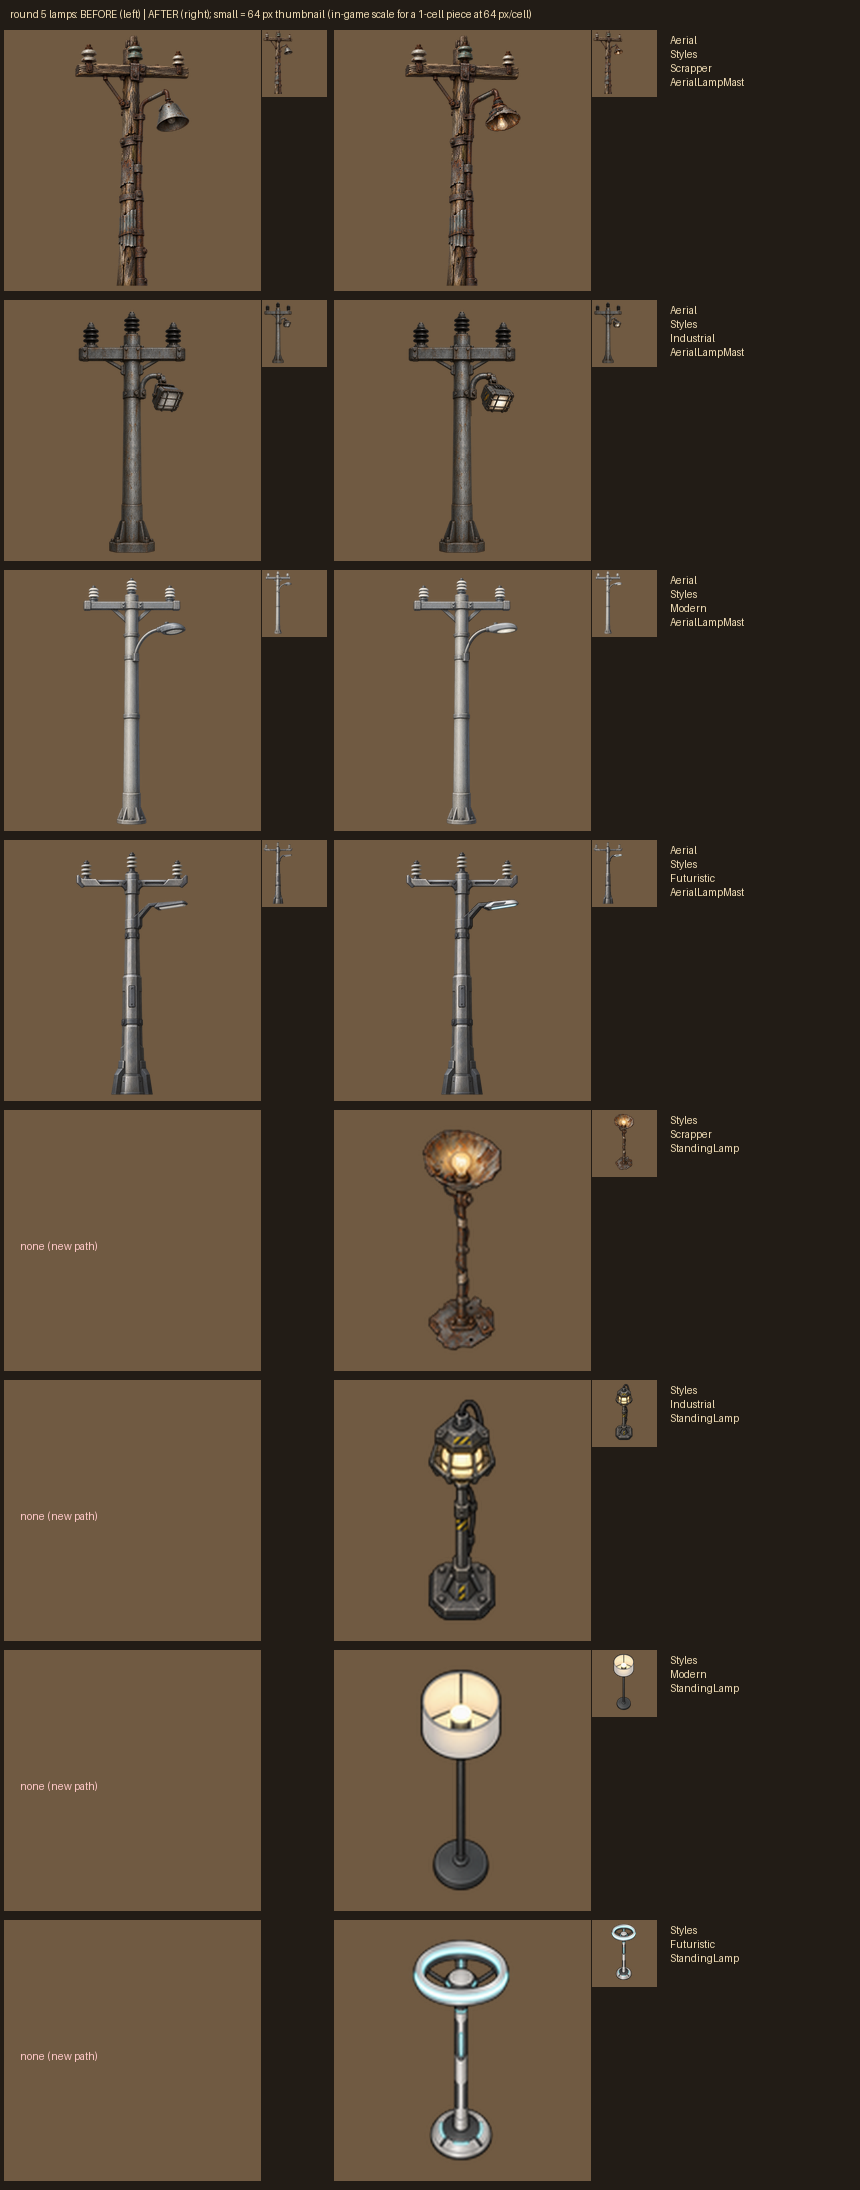
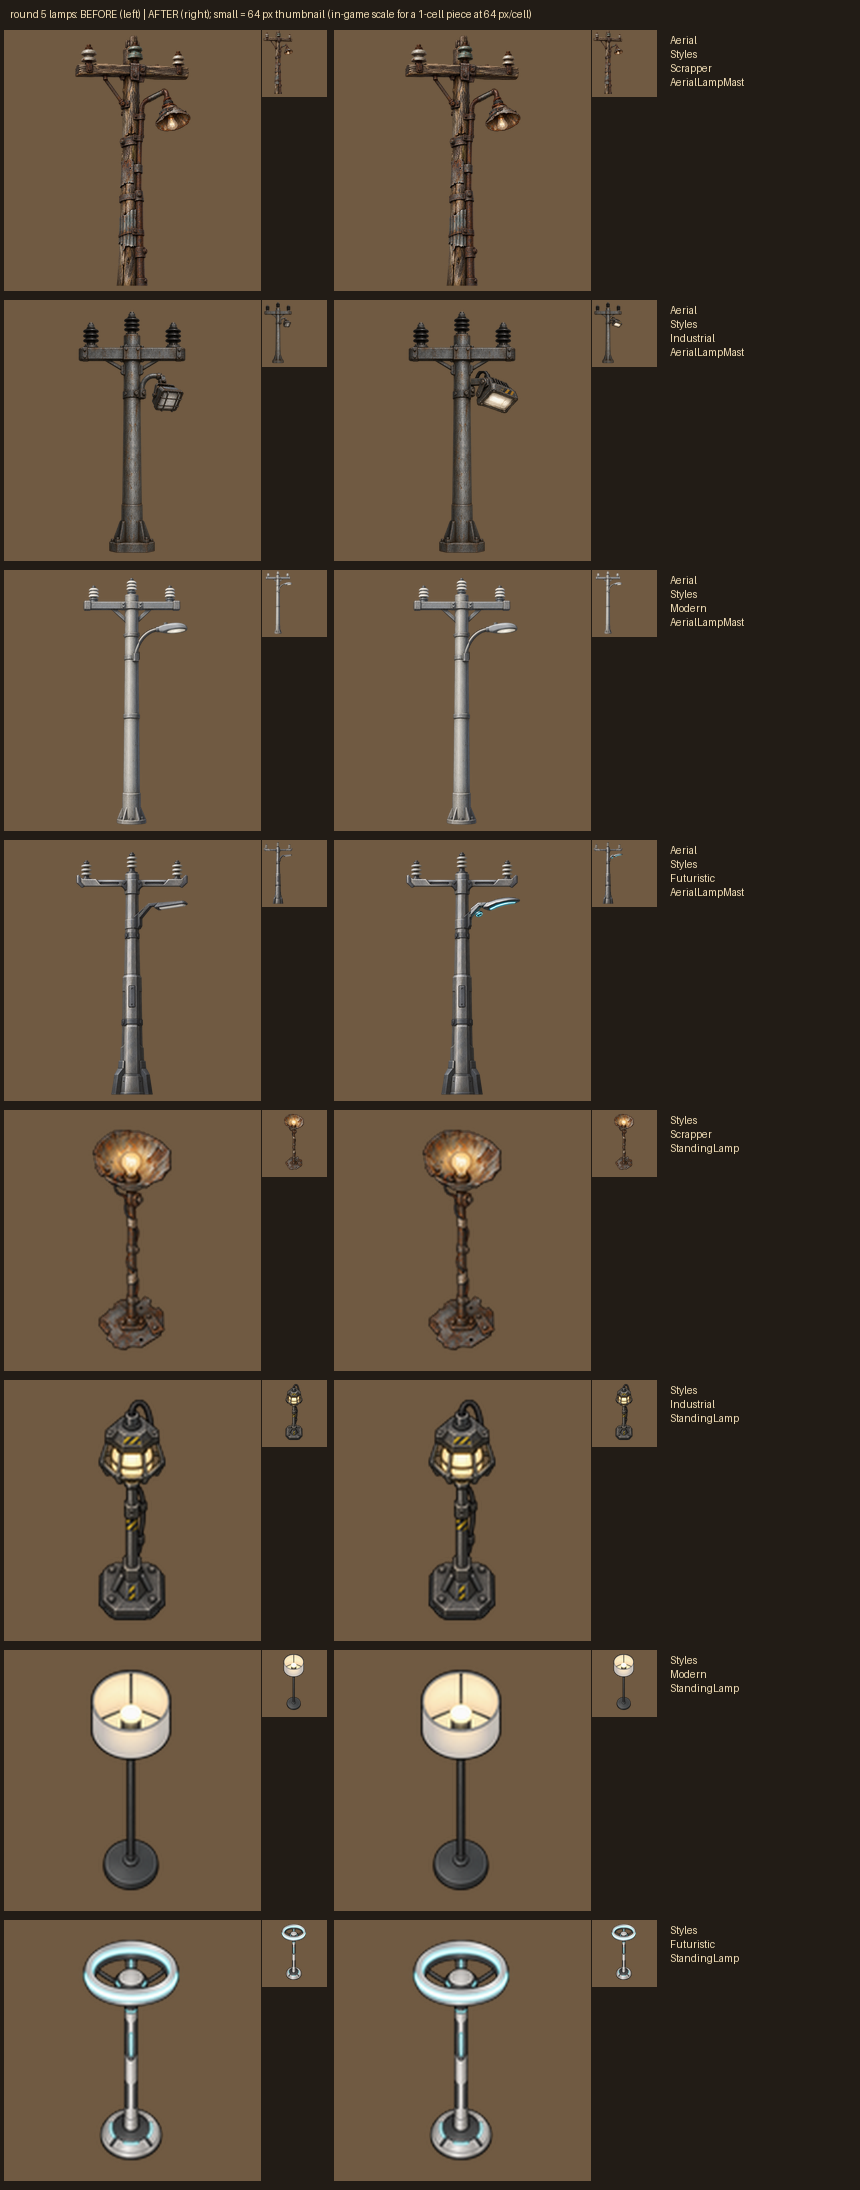
MessyConduit art r5: angular industrial floodlight and futuristic light-blade mast heads, Modern hose reel fire-hydrant red with bare steel wheel; round 5 report and contact sheets

diff --git a/src/RimMandrake/Utils/mockups/messy_conduit/round5_art_install.py b/src/RimMandrake/Utils/mockups/messy_conduit/round5_art_install.py
@@ -156,10 +156,11 @@ def plan():
         off, n = w.strip_off(S)
         out.append(("Styles/ExtCord/PowerStrip_Off.png", off, "derived LED-off %d px" % n))
     for L in LOOKS:
-        if not have("mast_" + L):
+        src = "mast2_" + L if have("mast2_" + L) else "mast_" + L    # mast2_ = the stronger retry (Industrial, Futuristic)
+        if not have(src):
             continue
         old_p = os.path.join(IN, "mast_" + L + ".png")
-        new = conform(old_p, os.path.join(RAW, "mast_" + L + ".png"), os.path.join(CONF, "mast_%s_reg.png" % L))
+        new = conform(old_p, os.path.join(RAW, src + ".png"), os.path.join(CONF, "mast_%s_reg.png" % L))
         old = rgba(old_p)
         x0, y0, x1, y1 = HEAD_BOX[L]
         m = old.copy()

diff --git a/Transient/mc_art_round5_report.md b/Transient/mc_art_round5_report.md
@@ -1,6 +1,6 @@
 # Messy Conduit — art round 5 (owner review of per-style map)
 
-Status: IN PROGRESS (skeleton written first; filled section by section)
+Status: DONE 2026-10-04 (art installed through the art ledger; nothing deployed or seen in game)
 
 ## 1. Owner's words (verbatim)
 "Station 3: Power switch in modern style should look like something in the real world: a throw-switch to connect-disconnect power. Junction boxes should look like little square connector bricks you plug into (three prong). Power strips should be plugged into the top with three-prong plugs, like real life. Station 4 T and + power junctions look very poor quality: need to make the wires thinner, and ensure the junction box connectors are thicker to cover them. Make + and T connectors be relatively the same central size/center. Station 6: Make the lamps on the lamp masts like ordinary lights, not frozen bright sparkles. Make them the same as the wall lights normally used. Make the cybertek light look very futuristic, the modern lamp look like a streetlight, the industrial star wars one look angular and industrial, and the junker one look like a bare lightbulb in a crude reflector dish. Make the industrial black cables for the poles narrower: they are extremely thick right now. Station 11: The hose reel for modern should not itself be neon, but rather fire-hydrant-red painted metal and bare steel wheel. Make the power switches look appropriate for each of the chosen styles as well. Also redo the bare lamp on the floor the same way (art). station 23: clamp is too low res, looks bad and has strange metallic conduit sticking out its back. Fix."
@@ -40,14 +40,34 @@ clamps x4, Modern stored reel); wave 2 = switch Off x4 (edit of each new On: lev
 T junctions are NOT rendered: each T is its look's + image shifted 19 px and cut above the brick, so T and + share one
 brick size and centre exactly.
 
-Progress: first 5 renders back clean with real alpha at 1254 px. Scrapper switch first render came back as a 128 px
-non-render (rejected, `sw_Scrapper_rejected128.png`), re-queued.
-Conformed so far and looked at: all four + / T junction pairs (ExtCord recoloured to Green/Brown/Yellow/Blue with
-recolor_extcord_pieces.recolor: the plug heads take the net's cord colour, the white brick stays), Modern switch (grey
-disconnect box, red throw handle), Modern mast head (cobra-head streetlight).
+Installed (all through artledger.install_image, reason script:round5_art_install.py; validator PASS on every slot against
+its shipped reference, the only finding the usual faint-alpha WARN 0.2-3%):
+- switches x8: Scrapper copper knife switch on scrap plate; Industrial gunmetal disconnect box with angular throw lever and
+  green lamp; Modern grey steel safety-disconnect box with a red throw handle (On = handle up, Off = handle down);
+  Futuristic alloy breaker with a glowing slide lever. Off = an edit of the same On render with the lever thrown open.
+- junctions x16: + and T per family + ExtCord Green/Brown/Yellow/Blue recolours (`Junction_Tin`/`Junction_Tape` for Scrapper).
+- power strip: `PowerStrip.png` (white strip, black 3-prong plugs pushed in from the top, orange LED) + derived
+  `Styles\ExtCord\PowerStrip_Off.png`. **Validator REJECT, shipped anyway, said here:** height 16 px vs the old 18 and
+  aspect 3.69 vs 3.28 - the redesign (plugs on top, cord tails) is wider than the old bare strip at the same box; it is
+  not squashed. Same 64x32 canvas, same draw (0.8 x 0.4 cell).
+- lamp mast heads x4 (+ tops): Scrapper bare bulb in a dented reflector dish; Industrial angular gunmetal floodlight (retry:
+  the first edit barely changed the old caged lantern); Modern cobra-head streetlight; Futuristic alloy blade with a cyan-white
+  light strip (retry, same reason). Pole/crossarm/insulators byte-identical outside the head box.
+- Modern reel stored + laid: fire-hydrant red painted housing, bare steel hand-wheel, green hose kept.
+- tap clamps x4 at 256 (was a 64 render upscaled to 128): no cable stub behind the handles. Validated against the old clamp
+  upscaled x2 with its stub columns cut (vs the raw old one it REJECTs on -18% width: that width IS the removed stub).
+- floor lamps x4 at `Styles\<Look>\StandingLamp.png` (new paths, 128): Scrapper bulb in scrap dish on pipe stand;
+  Industrial caged lantern on hazard-striped stand; Modern drum shade on black pole; Futuristic alloy column with a ring light.
+  NOT DRAWN IN GAME until the code change in sec. 6 item 3.
 
-## 5. Contact sheets
-(to fill)
+## 5. Contact sheets (before = git HEAD at sheet time, after = installed candidate)
+
+- `D:\Luke\dev\RimMandrake\Transient\mc_style_art\round5_switches.png`
+- `D:\Luke\dev\RimMandrake\Transient\mc_style_art\round5_junctions.png`
+- `D:\Luke\dev\RimMandrake\Transient\mc_style_art\round5_lamps.png` (mast heads + floor lamps)
+- `D:\Luke\dev\RimMandrake\Transient\mc_style_art\round5_strip_reel_clamp.png`
+(Rebuilt with `round5_art_install.py sheets`; in the lamps sheet Scrapper/Modern masts show identical before/after because
+they were committed before the last rebuild.)
 
 ## 6. Code changes owed by other agents (no C#/Defs edited here)
 
@@ -66,4 +86,11 @@ disconnect box, red throw handle), Modern mast head (cobra-head streetlight).
 
 
 ## 7. Owed / not done
-(to fill)
+
+- Floor lamp and per-look clamp art are NOT drawn until the code changes in sec. 6 (items 2, 3). The root `Aerial\TapClamp.png`
+  (Scrapper) IS what the code draws today, so station 23's clamp changes on the next deploy.
+- Overhead Industrial cable width is code (sec. 6 item 1).
+- ExtCord colour recolours: `recolor_extcord_pieces.py --check` reports 0 stale of 24 against the new orange sources.
+- Junction T has no separate render: derived from the + (sec. 4). Old root `Aerial\AerialLampMast.png` (unstyled legacy
+  def texture, 3 green dots) untouched: every look draws `Aerial\Styles\<Look>\` art.
+- Nothing deployed; no live check (offline only, as briefed).
